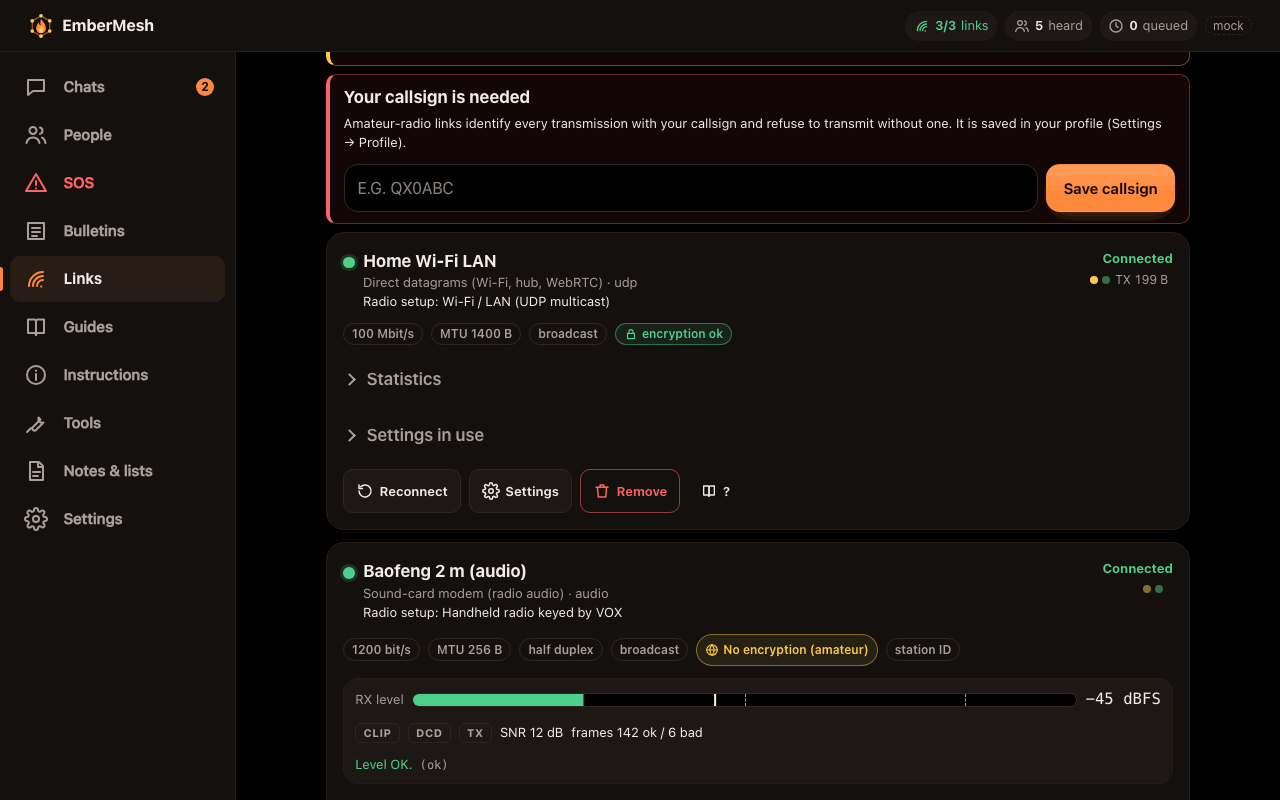
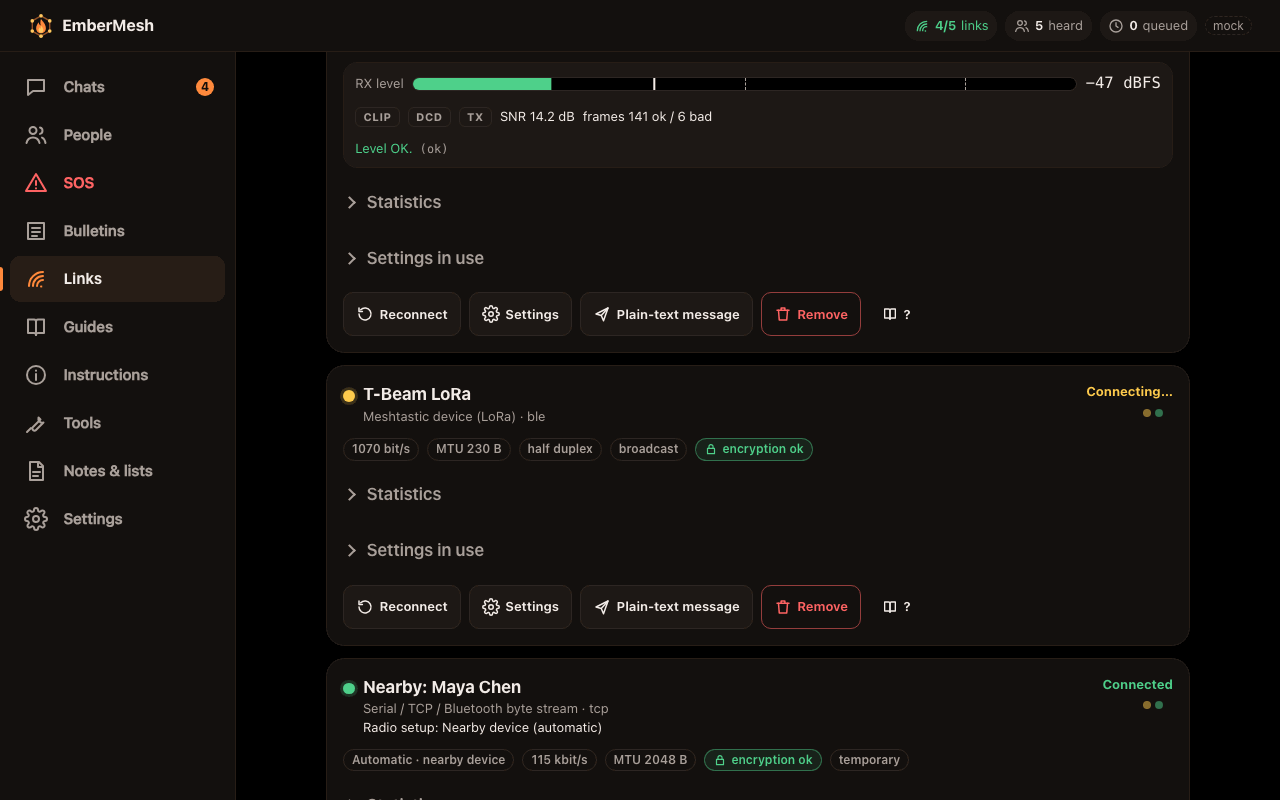
README: nearby devices, optional internet relay, Morse by light; refreshed screenshots

diff --git a/README.md b/README.md
@@ -36,7 +36,8 @@ off until you turn it on, reaches contacts far away while a connection exists.
 ---
 
 EmberMesh is a chat app and a reference library that keep working when phone networks, the
-internet and power grids do not. Two phones can talk over Bluetooth with nothing else around. A
+internet and power grids do not. Two phones can talk over Bluetooth with nothing else around, and
+apps on the same Wi-Fi or hotspot find each other and link up by themselves. A
 laptop or phone on its own Wi-Fi hotspot becomes a **hub**: anyone nearby opens a web page and is
 on the mesh. Plug a cheap handheld radio into that hub through a sound card and the whole group can
 reach another camp kilometres away. Messages that cannot be delivered yet are kept and carried —
@@ -44,8 +45,9 @@ by anyone walking between the groups, or on a USB stick, or as a series of QR co
 
 Beside the chat sits a library of **5,301 offline guides** — first aid, water, food, shelter,
 radio, repair, power and more — plus a 33-chapter operator manual, searchable by keywords and by meaning, with 60 field calculators
-and a Morse reader that decodes a flashing light through the camera or a tone through the
-microphone. The same C++17 core runs on Android, iOS, Linux, macOS, Windows and in any modern
+and Morse by light: type a message and the phone flashes it; point another camera roughly at the
+blinking light and it finds the light by itself and reads it (a tone through the microphone works
+too). The same C++17 core runs on Android, iOS, Linux, macOS, Windows and in any modern
 browser as WebAssembly, so every device behaves the same way. In a browser it installs as an
 offline app, and a hosted copy of the web app is one click away under **Open the web app** above.
 
@@ -53,18 +55,21 @@ offline app, and a hosted copy of the web app is one click away under **Open the
   <tr>
     <td align="center"><img src="docs/assets/screenshots/chat.png" width="200" alt="Public channel with a check-in, a shared position and an SOS relayed over LoRa"><br><sub>Chat — SOS, check-ins, positions</sub></td>
     <td align="center"><img src="docs/assets/screenshots/radio-wizard.png" width="200" alt="Connect a radio wizard: the cables and adapters needed for a handheld radio on VOX"><br><sub>Connect a radio — what you need</sub></td>
-    <td align="center"><img src="docs/assets/screenshots/morse-reader.png" width="200" alt="Morse reader decoding VVV CQ TEST from a blinking light seen by the camera"><br><sub>Morse reader — camera or microphone</sub></td>
+    <td align="center"><img src="docs/assets/screenshots/morse-reader.png" width="200" alt="Morse camera reader reading the light: CQ CQ DE N0CALL K decoded at 10 WPM, no box to place"><br><sub>Morse reader — finds the light itself</sub></td>
     <td align="center"><img src="docs/assets/screenshots/sos.png" width="200" alt="SOS screen with the hold-to-send beacon button"><br><sub>SOS beacon — hold to send</sub></td>
   </tr>
 </table>
 <table>
   <tr>
-    <td align="center"><img src="docs/assets/screenshots/links.png" width="420" alt="Links and radios: a Wi-Fi link and an amateur-band audio link with a receive level meter"><br><sub>Links &amp; radios — every connection, with live levels</sub></td>
+    <td align="center"><img src="docs/assets/screenshots/links.png" width="420" alt="Links and radios: an audio link's receive level meter, a LoRa link and an automatic nearby-device link"><br><sub>Links &amp; radios — live levels, automatic links tagged</sub></td>
     <td align="center"><img src="docs/assets/screenshots/library.png" width="420" alt="Survival library search with smart search and Ask the library"><br><sub>Library — keyword and smart search</sub></td>
   </tr>
   <tr>
     <td align="center"><img src="docs/assets/screenshots/instructions.png" width="420" alt="What you need: devices, cables and adapters per connection and platform"><br><sub>Instructions — hardware for every connection</sub></td>
     <td align="center"><img src="docs/assets/screenshots/antenna-tool.png" width="420" alt="Half-wave dipole calculator with cut lengths and a build diagram"><br><sub>Tools — antenna designer with build diagram</sub></td>
+  </tr>
+  <tr>
+    <td align="center" colspan="2"><img src="docs/assets/screenshots/connections.png" width="420" alt="Settings, Connections: Nearby devices on, the internet relay off, and what each relay can see"><br><sub>Connections — nearby devices, and the optional relay with what it can see</sub></td>
   </tr>
 </table>
 <sub>Screenshots from the shared UI with its built-in demo backend (<code>ui/?mock=1</code>); names, places and positions are fictional sample data.</sub>
@@ -108,8 +113,9 @@ binaries are published to the rolling [**latest** pre-release](../../releases/ta
 | iOS 15+ | no download (an `.ipa` needs Apple signing); build it with Xcode and sign it with your own Apple ID — [apps/ios/README.md](apps/ios/README.md) |
 
 The latest pre-release is rebuilt from every commit and is a development build. The Android release
-APK is signed with the project's release key when it is named `…-android-release.apk`, so it
-updates earlier copies signed with that key; an APK named `…-release-ci-debug-signed.apk` (or one
+APK is signed in CI with the publisher's own release key (when the repository's signing secrets
+are set — [docs/CI.md](docs/CI.md#release-signing)) and is then named `…-android-release.apk`, so it
+updates earlier copies signed with that key. An APK named `…-release-ci-debug-signed.apk` (or one
 from another builder) carries a throw-away key and will not install over it as an update
 (uninstall first). The release notes give the signing certificate's SHA-256.
 
@@ -126,12 +132,13 @@ runs from a USB stick — see [Getting the app onto other people's devices](guid
 |---|---|
 | 💬 **Chat** | Direct messages (end-to-end encrypted), channels (random key, passphrase or open), a signed cleartext Public channel, delivery and read receipts, priorities, small files |
 | 🕸 **Mesh** | Managed flooding with store-carry-forward: undelivered messages are kept for days and handed to every newly met peer. A node with several links bridges them automatically |
-| 🆘 **Emergency** | Repeating SOS beacon relayed first by every node, safety check-ins and roll call, a bulletin board (water, food, medical, shelter, hazards), position sharing, Morse by flashlight or tone |
+| 🆘 **Emergency** | Repeating SOS beacon relayed first by every node, safety check-ins and roll call, a bulletin board (water, food, medical, shelter, hazards), position sharing, typed messages sent as Morse by flashlight, screen or tone |
 | 📻 **Radios** | Sound-card soft modems through any radio's audio, KISS TNCs with APRS messaging, Meshtastic, RNode, AT-command LoRa modules, transparent serial radios, receive-only SDR |
-| 📶 **Device to device** | Bluetooth LE phone-to-phone, Wi-Fi multicast, Apple peer-to-peer, WebRTC paired by QR code, TCP, serial cable, USB-stick and QR-code bundles |
+| 📶 **Device to device** | **Nearby devices:** apps on the same Wi-Fi or hotspot find each other and connect by themselves. Also Bluetooth LE phone-to-phone, Wi-Fi multicast, Apple peer-to-peer, WebRTC paired by QR code, TCP, serial cable, USB-stick and QR-code bundles |
+| 🌐 **Internet relay** (optional) | Off until you turn it on. Then contacts are also reached over any internet connection (LTE, satellite) through relay servers that carry sealed frames: they see addresses, sizes and timing, never content. One free third-party relay is enabled by default; your own hub can be a private relay instead (`emberd --relay-broker`) |
 | 🏕 **Hub** | A computer or phone serves the app on its own hotspot at `http://<ip>:8437/`; browsers that open it join the mesh. Add a radio and the whole hotspot reaches distant groups |
 | 📚 **Library** | 5,301 guides in 19 categories plus a 33-chapter operator manual, keyword and meaning-based search, every guide with its source and licence |
-| 🧭 **Easy to use** | Simple mode (bigger text and buttons, fewer choices, plain words) and accessibility settings: text size, high contrast, motion, reading spacing, vibration, keyboard shortcuts, screen-reader labels. A short 3D launch animation that can be shortened or turned off and follows the system's reduced-motion setting |
+| 🧭 **Easy to use** | Simple mode (bigger text and buttons, fewer choices, plain words) and accessibility settings: text size, high contrast, motion, reading spacing, vibration, keyboard shortcuts, screen-reader labels. The same short 3D launch animation in every app, which can be shortened or turned off and follows the system's reduced-motion setting |
 | 🧮 **Tools** | 60 calculators, including 19 antenna designers with build diagrams, link budget, radio horizon, coax loss, solar and battery sizing, grid conversion, water disinfection; band plans for 36 radio services |
 | 🔐 **Your data** | Storage encrypted with a passphrase, duress passphrase, panic wipe, identity backup, contact verification by 8 words read over the radio or by QR card |
 
@@ -162,12 +169,18 @@ runs from a USB stick — see [Getting the app onto other people's devices](guid
 <details>
 <summary><b>Morse reader</b></summary>
 
-Point the camera at a flashlight, a lamp or another phone's screen, or let the microphone hear a
-tone, and the text appears as it is decoded. One decoder in the core serves every app: it finds
-the speed by itself (about 3–25 WPM by light, 5–40 WPM by sound), tolerates hand-keyed timing,
-camera exposure drift, flicker and noise, and needs no link. Sending works by torch, screen flash
-or tone. Tested with generated light and tone signals, not yet with a real lamp in real light —
-see [Sending and reading Morse](guides/content/embermesh/morse-reading.md).
+Point the camera roughly at a flashlight, a lamp or another phone's screen, or let the microphone
+hear a tone, and the text appears as it is decoded. The camera reader watches the whole frame and
+finds the keyed light by itself — no box to place — ignoring steady lamps, flicker and hand shake;
+tap a light to choose it when there are two. One decoder in the core serves every app and finds the
+speed by itself. **Sending:** type text and the device flashes it with its flashlight, or with the
+screen when it has none, or plays it as a tone.
+
+Measured **in simulation only** ([core/src/morse/README.md](core/src/morse/README.md)): the camera
+reader locks on in about 1–1.5 s at 12–15 WPM and needs about two camera frames per dot (30 fps:
+up to ~20 WPM); a one-pixel light in a dark room must stand roughly 20–40 brightness levels above
+its background, and daylight scenes are much harder. It has been tested with generated scenes, not
+yet with a real lamp in real light — see [Sending and reading Morse](guides/content/embermesh/morse-reading.md).
 
 </details>
 
@@ -223,7 +236,12 @@ flowchart LR
   end
   P2 -. "carried by a person<br/>(store-carry-forward)" .-> P3
   P1 -. "USB stick / QR codes" .-> P3
+  HubA <-. "optional internet relay<br/>(sealed frames, while a connection exists)" .-> HubB
 ```
+
+Devices on the same Wi-Fi find each other through DNS-SD and connect without setup; browsers cannot
+discover the network, so they join the hub that served them or pair by code. Details:
+[docs/CONNECTIVITY.md](docs/CONNECTIVITY.md).
 
 <details>
 <summary><b>Mesh, security and storage in more detail</b></summary>
@@ -250,12 +268,18 @@ flowchart LR
   working clock never lets the mesh change it. Guide packs from others are validated before use.
 - **On the device:** passphrase-encrypted storage, a duress passphrase, panic wipe; hubs never
   announce the computer's or phone's own name.
+- **Nearby devices and the relay:** Nearby shows your name and EmberMesh identity to every
+  EmberMesh device on the same network. The internet relay sends nothing before you consent; its
+  frames are sealed end to end, but the relay operator sees your IP address, when you are online
+  and which other users you exchange messages with, and on brokers that allow wildcard subscriptions
+  anyone can watch topic names, sizes and timing. A single default relay is a single point of
+  failure. See [SECURITY.md](SECURITY.md) and [docs/CONNECTIVITY.md](docs/CONNECTIVITY.md) §2, §4.5.
 - **Limits, stated plainly:** no forward secrecy for direct messages; who talks to whom and when is
   visible to anyone in radio range; passphrase channels can be guessed offline (prefer random-key
   channels shared by invite); "verified" only means something for contacts you verified yourself,
   so do that before an emergency. The code has not had an independent security audit.
 
-Threat model and mechanisms: [docs/PROTOCOL.md §4, §9–§11](docs/PROTOCOL.md#4-security) and the
+Threat model and mechanisms: [docs/PROTOCOL.md §4, §9–§12](docs/PROTOCOL.md#4-security) and the
 [security chapter](guides/content/embermesh/security.md) of the manual. To report a vulnerability,
 see [SECURITY.md](SECURITY.md).
 
@@ -263,10 +287,10 @@ see [SECURITY.md](SECURITY.md).
 
 | | Runs as | Links it can use |
 |---|---|---|
-| **Android** 5.0+ | native app (Kotlin + C++ core) | Bluetooth LE, Bluetooth SPP, USB serial (FTDI, CP210x, CH34x, PL2303, CDC-ACM), USB / jack audio, Wi-Fi, Wi-Fi Direct, phone hub |
-| **iPhone / iPad**, iOS 15+ | native app (Swift + C++ core) | Bluetooth LE, Apple peer-to-peer, audio (VOX only: iOS cannot key PTT), Wi-Fi, phone hub |
-| **Linux** (incl. Raspberry Pi), **macOS**, **Windows** | `emberd` daemon + web UI | serial, sound cards with VOX / RTS / DTR / CM108 / `rigctld` PTT, TCP/UDP, `rtl_tcp`, Wi-Fi hub |
-| **Browser** (Chrome / Edge tested) | WebAssembly app: installable offline PWA, hosted web app or single HTML file | WebSocket to a hub, WebRTC, Web Serial and Web Bluetooth (Chrome), audio modem |
+| **Android** 5.0+ | native app (Kotlin + C++ core) | Nearby devices, internet relay, Bluetooth LE, Bluetooth SPP, USB serial (FTDI, CP210x, CH34x, PL2303, CDC-ACM), USB / jack audio, Wi-Fi, Wi-Fi Direct, phone hub |
+| **iPhone / iPad**, iOS 15+ | native app (Swift + C++ core) | Nearby devices, internet relay, Bluetooth LE, Apple peer-to-peer, audio (VOX only: iOS cannot key PTT), Wi-Fi, phone hub |
+| **Linux** (incl. Raspberry Pi), **macOS**, **Windows** | `emberd` daemon + web UI | Nearby devices (built-in mDNS), internet relay (TLS through Mbed TLS) and a private relay broker, serial, sound cards with VOX / RTS / DTR / CM108 / `rigctld` PTT, TCP/UDP, `rtl_tcp`, Wi-Fi hub |
+| **Browser** (Chrome / Edge tested) | WebAssembly app: installable offline PWA, hosted web app or single HTML file | internet relay, WebSocket to a hub, WebRTC, Web Serial and Web Bluetooth (Chrome), audio modem; no Nearby discovery (a page cannot search the network: it joins a hub or pairs by code) |
 
 **Radio hardware the software supports** (none of it field-tested yet): handhelds such as the
 Baofeng UV-5R through a K1 audio cable on VOX or through an AIOC / Digirig-class interface;
@@ -277,7 +301,7 @@ is in [What you need](guides/content/embermesh/what-you-need.md).
 
 ## The guide library
 
-5,301 guides in 19 categories plus the 33-chapter operator manual — about 81 MB of Markdown, packed
+5,301 guides in 19 categories plus the 33-chapter operator manual — about 80 MB of Markdown, packed
 into one 58.2 MB `guides.pack` with a prebuilt keyword index, the search model and passage vectors. Every guide records its source, licence and attribution, and the app shows
 them at the bottom of each guide.
 
@@ -317,11 +341,12 @@ The **operator manual** is inside every app (Guides → "How to use EmberMesh") 
 
 **For developers:** [docs/ARCHITECTURE.md](docs/ARCHITECTURE.md) (design and layout) ·
 [docs/RPC_API.md](docs/RPC_API.md) (app ↔ core contract) · [docs/PROTOCOL.md](docs/PROTOCOL.md)
-(wire format, security) · platform READMEs: [desktop](apps/desktop/README.md) ·
+(wire format, security) · [docs/CONNECTIVITY.md](docs/CONNECTIVITY.md) (Nearby devices, internet
+relay) · [docs/CI.md](docs/CI.md) (workflows, release signing) · platform READMEs: [desktop](apps/desktop/README.md) ·
 [web](apps/web/README.md) · [Android](apps/android/README.md) · [iOS](apps/ios/README.md) ·
 [shared UI](ui/README.md) · [guide packer](tools/guidepack/README.md).
-Working rules and step-by-step playbooks for contributors and automated coding tools:
-[AGENTS.md](AGENTS.md).
+Working rules for contributors and automated coding tools: [AGENTS.md](AGENTS.md), with
+step-by-step playbooks in [`.claude/skills/`](.claude/skills/).
 
 ## Building and testing
 
@@ -378,8 +403,8 @@ publishing gate; report security problems privately as described in [SECURITY.md
 ## Licences
 
 - **Code:** [MIT License](LICENSE) — Copyright (c) 2026 Joe.
-- **Third-party components** (Monocypher, miniaudio, ZXing core, the potion-base-4M search model, parts of Project Nayuki's QR Code generator,
-  doctest, the Gradle wrapper):
+- **Third-party components** (Monocypher, miniaudio, Mbed TLS, ZXing core, the potion-base-4M
+  search model, parts of Project Nayuki's QR Code generator, doctest, the Gradle wrapper):
   their own permissive licences, listed with full texts in
   [THIRD_PARTY_LICENSES.md](THIRD_PARTY_LICENSES.md).
 - **Guide library:** each guide under its own licence — public domain, CC0, CC BY 4.0 or

diff --git a/guides/LICENSES.md b/guides/LICENSES.md
@@ -26,7 +26,7 @@ nothing "all rights reserved".
 
 ## What is in the library
 
-Counted from the `license:` field of all 5,333 guides (5,301 library guides and the 32-chapter operator manual) (files whose names start with `_` are
+Counted from the `license:` field of all 5,334 guides (5,301 library guides and the 33-chapter operator manual) (files whose names start with `_` are
 not guides):
 
 | Licence | Guides | Main sources |
@@ -35,9 +35,9 @@ not guides):
 | **Public domain — US Government works** (17 U.S.C. §105) | 1,191 | US Army field manuals and technical publications approved for public release, FEMA / Ready.gov, CDC, ATSDR, NIOSH, EPA, NWS / NOAA, USDA (Farmers' and home-canning bulletins, a 1954 soil-conservation handbook), US Coast Guard, USGS, FCC rules (47 CFR) |
 | **Public domain — old books** (published in 1930 or earlier) | 1,204 | Books mostly from 1880–1929 on farming, repair, woodcraft, first aid, radio, food preservation and household skills, transcribed from public-domain scans |
 | **CC BY 4.0** | 295 | Open Resources for Nursing (Open RN / WisTech Open) textbooks (282); BCcampus *Clinical Procedures for Safer Patient Care* via LibreTexts (13) |
-| **CC0 1.0** | 33 | The EmberMesh operator manual (`guides/content/embermesh/`, 32 chapters) and one original reference table — written for EmberMesh and dedicated to the public domain |
+| **CC0 1.0** | 34 | The EmberMesh operator manual (`guides/content/embermesh/`, 33 chapters) and one original reference table — written for EmberMesh and dedicated to the public domain |
 | **CC BY-SA 3.0** | 28 | Appropedia |
-| **Total** | **5,333** | |
+| **Total** | **5,334** | |
 
 The `license:` values are written out more precisely in the files themselves (30 distinct
 spellings, for example `Public Domain (US Government work, 17 U.S.C. §105; published 1918, United
